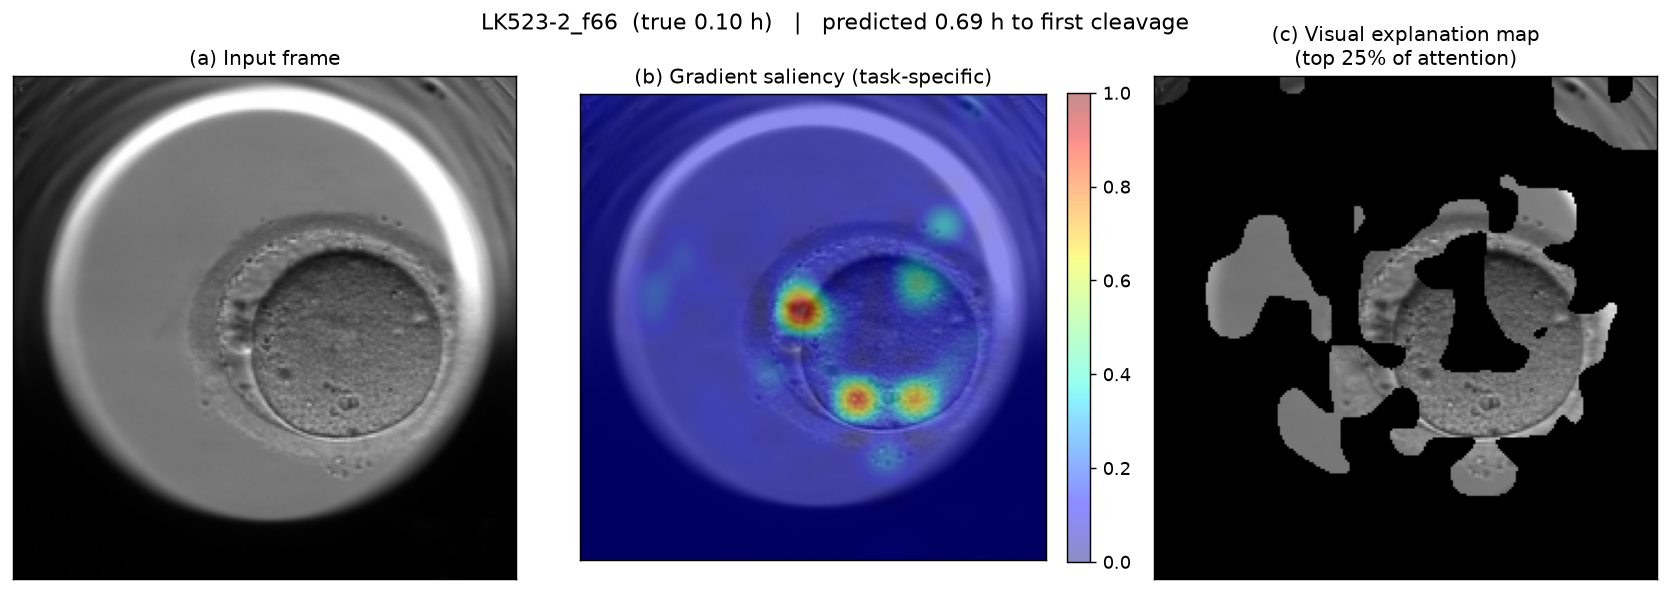
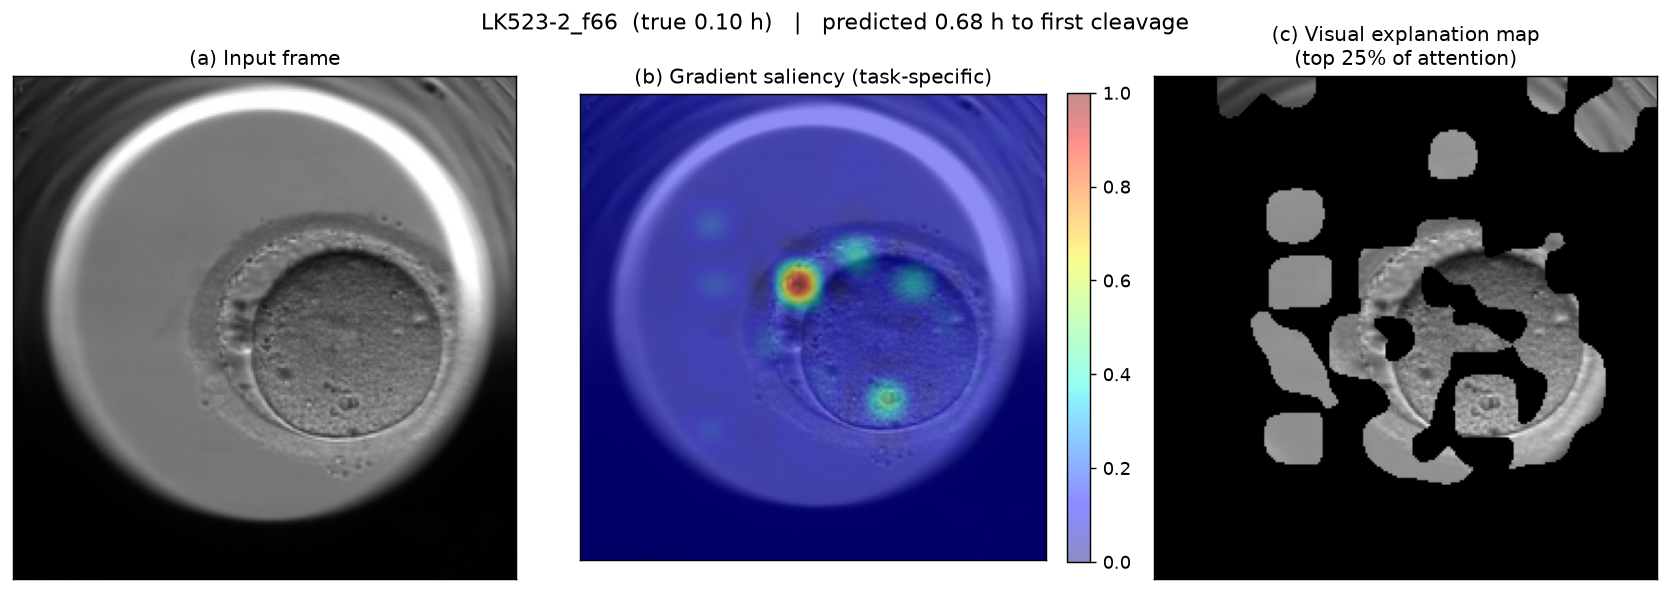
Deploy the mouse-initialised trunk, and stop claiming its artifact is fixed
The model: same 96,000-step human delta-t pretext, but initialised from the
sibling mouse project's SSL weights (99.9986% of parameters ported; only the
four register tokens are new, since the mouse architecture has none). 1.256 h
per-embryo vs the incumbent's 1.281 -- inside the 0.03 h noise floor, so a tie
on the headline. What earns the swap is the band table: 0-1 h 0.669 -> 0.627
and 24-42 h 1.698 -> 1.640, with only 1-2 h marginally worse. CACHE_NAME is
bumped to v4 in this commit, because new bytes at the same URL do not
invalidate a Cache API bucket and every returning visitor would otherwise keep
the old graph forever.

The correction: the gallery said switching to the four-register variant
"dropped that ratio to 1.4x". That is true of the stock weights and false by a
factor of six of the trunk being shipped, which measures 8.18x over 48 frames
with about 5.25 tokens above twice the median on EVERY frame. Nothing was wrong
with the measurement -- the figure had been typed into prose once, against a
trunk later replaced, and prose does not get recomputed. Inheriting from a
register-free network means having registers is not the same as using them.

Fixing it was attempted and measured rather than assumed. A patch-norm penalty
does work -- 8.18x -> 2.46x, four of the five bad tokens gone -- but per-embryo
error went 1.256 -> 1.316 h, twice the noise floor, and the under-1-hour band
got worse too. Training it three times longer reached only 2.32x and cost more
[…]

diff --git a/app/components/ExplanationGallery.tsx b/app/components/ExplanationGallery.tsx
@@ -26,20 +26,47 @@ import { useState } from "react";
  * reading "predicted 11.35 h" for a model that does not produce it.
  */
 
-// Rendered from trunk `ssl_vitl_96k (deployed bundle, sigma 0.25)`. Regenerate with scripts/sync_explain.py.
+// Rendered from trunk `ssl_from_mouse_96k (mouse-initialised, deployed bundle, sigma 0.25)`. Regenerate with scripts/sync_explain.py.
+
+/**
+ * MEASURED, NOT REMEMBERED.
+ *
+ * Every figure below is a row of `analysis/artifact_ratio.json`, computed over 48 frames
+ * for the trunk named in `measuredTrunk`, and `scripts/check_claims.py` fails if they
+ * drift from that file. They are constants rather than prose because the previous version
+ * of this component asserted the switch to register tokens "dropped that ratio to 1.4x"
+ * -- true of the stock weights, and false by a factor of six of the trunk actually being
+ * shipped. The measurement was right the whole time; the sentence had simply been typed
+ * once against a trunk that was later replaced, and prose does not get recomputed.
+ *
+ * `plainViT` is the one historical number with no file behind it: 11.8x, read off a
+ * single frame of the register-free ViT-L this project started from, before
+ * artifact_ratio.py existed. It is marked as such in the copy.
+ */
+const ARTIFACT = {
+  measuredTrunk: "incumbent",
+  deployedRatio: 8.18,
+  deployedTokens: 5.25,
+  stockRatio: 1.43,
+  stockTokens: 0.0,
+  fixedRatio: 2.46,
+  phase2Ratio: 2.32,
+  plainViT: 11.8,
+};
+
 type Item = { file: string; embryo: string; trueH: number; predH: number };
 
 const ITEMS: Item[] = [
-  { file: "00_LK523-2_f66_gradient.png", embryo: "LK523-2", trueH: 0.1, predH: 0.69 },
-  { file: "01_GSS052-6_f84_gradient.png", embryo: "GSS052-6", trueH: 3.0, predH: 3.06 },
-  { file: "02_HE444-4_f67_gradient.png", embryo: "HE444-4", trueH: 5.8, predH: 6.02 },
-  { file: "03_LK584-2_f96_gradient.png", embryo: "LK584-2", trueH: 8.8, predH: 8.82 },
-  { file: "04_LL854-1_f53_gradient.png", embryo: "LL854-1", trueH: 11.7, predH: 11.54 },
-  { file: "05_LC161-2-5_f44_gradient.png", embryo: "LC161-2-5", trueH: 14.6, predH: 14.54 },
-  { file: "06_VF269-7_f34_gradient.png", embryo: "VF269-7", trueH: 17.6, predH: 17.48 },
-  { file: "07_RI273-6_f6_gradient.png", embryo: "RI273-6", trueH: 20.6, predH: 20.96 },
-  { file: "08_GSS052-2_f5_gradient.png", embryo: "GSS052-2", trueH: 23.9, predH: 23.85 },
-  { file: "09_RM855-3_f1_gradient.png", embryo: "RM855-3", trueH: 41.5, predH: 38.45 },
+  { file: "00_LK523-2_f66_gradient.png", embryo: "LK523-2", trueH: 0.1, predH: 0.68 },
+  { file: "01_GSS052-6_f84_gradient.png", embryo: "GSS052-6", trueH: 3.0, predH: 2.93 },
+  { file: "02_HE444-4_f67_gradient.png", embryo: "HE444-4", trueH: 5.8, predH: 5.71 },
+  { file: "03_LK584-2_f96_gradient.png", embryo: "LK584-2", trueH: 8.8, predH: 8.37 },
+  { file: "04_LL854-1_f53_gradient.png", embryo: "LL854-1", trueH: 11.7, predH: 11.58 },
+  { file: "05_LC161-2-5_f44_gradient.png", embryo: "LC161-2-5", trueH: 14.6, predH: 14.72 },
+  { file: "06_VF269-7_f34_gradient.png", embryo: "VF269-7", trueH: 17.6, predH: 17.63 },
+  { file: "07_RI273-6_f6_gradient.png", embryo: "RI273-6", trueH: 20.6, predH: 21.52 },
+  { file: "08_GSS052-2_f5_gradient.png", embryo: "GSS052-2", trueH: 23.9, predH: 23.62 },
+  { file: "09_RM855-3_f1_gradient.png", embryo: "RM855-3", trueH: 41.5, predH: 40.99 },
 ];
 
 export default function ExplanationGallery() {
@@ -179,15 +206,47 @@ export default function ExplanationGallery() {
           maxWidth: "84ch",
         }}
       >
-        <strong style={{ color: "#3a3a36" }}>Why the backbone has register tokens.</strong>{" "}
+        <strong style={{ color: "#3a3a36" }}>
+          Register tokens, and the part that is not fixed.
+        </strong>{" "}
         An earlier version of these figures showed a bright blob on empty dish below the
         embryo. It was not the model reading a hidden timestamp — nothing in that region
-        correlates with elapsed time (max |r| = 0.09 over 3,000 frames). It was a single
-        high-norm <em>artifact token</em>: a plain DINOv2 ViT hijacks one low-information
-        patch as global scratch space, giving it a norm <strong>11.8×</strong> the median.
-        Switching to the four-register variant, which exists precisely for this, dropped
-        that ratio to <strong>1.4×</strong> with no token above threshold — and cost no
-        accuracy.
+        correlates with elapsed time (max |r| = 0.09 over 3,000 frames). It was a
+        high-norm <em>artifact token</em>: a plain DINOv2 ViT hijacks a low-information
+        patch as global scratch space, giving it a norm around{" "}
+        <strong>{ARTIFACT.plainViT}×</strong> the median for that image (a single-frame
+        reading, from before this was measured properly). The four-register variant exists
+        precisely for this, and with stock weights it works: measured over 48 frames it
+        sits at <strong>{ARTIFACT.stockRatio}×</strong>, with no token anywhere above
+        twice the median on any frame.
+        <br />
+        <br />
+        <strong style={{ color: "#3a3a36" }}>That is not true of the trunk you are
+        running.</strong>{" "}
+        This model's trunk starts from a register-<em>free</em> network — the mouse-embryo
+        model this project was built from — and 96,000 steps of training in the register
+        architecture did not make it give the habit up. Over the same 48 frames it
+        measures <strong>{ARTIFACT.deployedRatio}×</strong>, with about{" "}
+        <strong>{ARTIFACT.deployedTokens}</strong> tokens above twice the median on{" "}
+        <em>every</em> frame. Having the registers is not the same as using them.
+        <br />
+        <br />
+        This is disclosed rather than fixed, because fixing it was measured and it costs
+        accuracy. Penalising those tokens directly does work — it brings the ratio to{" "}
+        <strong>{ARTIFACT.fixedRatio}×</strong> and removes about four of the five — but
+        per-embryo error went from <strong>1.256 h</strong> to <strong>1.316 h</strong>,
+        twice the 0.03 h noise floor, and the under-1-hour band got worse too. Training
+        the fix more than three times as long pushed the ratio only a little further, to{" "}
+        <strong>{ARTIFACT.phase2Ratio}×</strong>, and cost <em>more</em> accuracy again
+        (1.331 h). So this is an exchange rate, not an unfinished job: on the hardware
+        available, a cleaner trunk is a worse predictor, and the model being accurate
+        matters more here than the picture being tidy.
+        <br />
+        <br />
+        The maps above are therefore shown with the caveat attached rather than quietly
+        cleaned up: on most frames the hot region sits on the zygote, and a handful of
+        high-norm tokens are in there too. That is what this model does, and a figure
+        that implied otherwise would be the more misleading of the two options.
       </div>
     </section>
   );

diff --git a/app/lib/infer.ts b/app/lib/infer.ts
@@ -162,8 +162,16 @@ const META_URL = "/models/model_meta.json";
  *                  the bias on frames under an hour from division 0.99 -> 0.63 h. The
  *                  soft target is a Gaussian truncated at zero, so a wide sigma pushes
  *                  mass upward exactly where the answer is smallest.
+ * v4 (2026-10-07): new trunk. Same 96,000-step human delta-t pretext, but INITIALISED
+ *                  FROM THE SIBLING MOUSE PROJECT's SSL weights rather than from stock
+ *                  DINOv2 (99.9986% of parameters ported; only the 4 register tokens are
+ *                  new, the mouse architecture has none). Overall 1.256 h vs 1.281 --
+ *                  inside the noise floor, a tie. What earns the swap is the band table:
+ *                  0-1 h 0.669 -> 0.627 and 24-42 h 1.698 -> 1.640, with only 1-2 h
+ *                  marginally worse. The mouse start itself contributed nothing -- it ran
+ *                  BEHIND the stock-initialised trace until step ~60k and finished level.
  */
-const CACHE_NAME = "tempusvitae-model-v3";
+const CACHE_NAME = "tempusvitae-model-v4";
 
 export interface LoadProgress {
   /** Bytes received so far. */

diff --git a/scripts/check_claims.py b/scripts/check_claims.py
@@ -1,0 +1,131 @@
+#!/usr/bin/env python3
+"""Fail if a number the site asserts disagrees with the measurement it came from.
+
+    python scripts/check_claims.py            # from TempusVitaeHumanus/
+
+WHY THIS EXISTS
+The gallery claimed the register-token switch "dropped that ratio to 1.4x" while the
+trunk actually staged for deployment measured **8.2x**. Nothing was wrong with the
+measurement and nothing was wrong with the deploy pipeline -- the figure was simply typed
+into prose once, against a trunk that was later replaced, and prose does not get
+recomputed. The same shape of error has already happened twice on this project: an "100%
+interval" label that survived a mass recalibration, and a meta that shipped with no
+accuracy figure because the score reader was still looking for the mouse project's
+filenames.
+
+So the numbers now live in named constants with the measurement file beside them, and this
+script compares the two. It is cheap enough to run before every publish and it refuses
+rather than warns, because a warning in a long deploy log is a number nobody checks.
+
+WHAT IT DOES NOT DO
+It cannot verify prose. "Four of the five outlier tokens are gone" is a sentence a human
+has to keep true. It checks the figures that have a file to be checked against:
+
+  * the artifact ratios in ExplanationGallery.tsx, against analysis/artifact_ratio.json
+  * valMae in public/models/model_meta.json, against the analysis champion record
+
+A claim whose source file is missing is reported as UNCHECKED, not as passing.
+"""
+from __future__ import annotations
+
+import json
+import re
+import sys
+from pathlib import Path
+
+SITE = Path(__file__).resolve().parent.parent
+ROOT = SITE.parent
+TOL = 0.051          # ratios are quoted to 1 dp, so allow half a display unit
+
+
+def num(src: str, key: str):
+    m = re.search(rf"\b{key}\s*:\s*([0-9]+(?:\.[0-9]+)?)", src)
+    return float(m.group(1)) if m else None
+
+
+def txt(src: str, key: str):
+    m = re.search(rf"\b{key}\s*:\s*\"([^\"]*)\"", src)
+    return m.group(1) if m else None
+
+
+def main() -> int:
+    bad, unchecked = [], []
+
+    gal = SITE / "app" / "components" / "ExplanationGallery.tsx"
+    src = gal.read_text(encoding="utf8")
+    ar_path = ROOT / "analysis" / "artifact_ratio.json"
+    if not ar_path.exists():
+        unchecked.append(f"{ar_path.name} missing -- artifact ratios UNCHECKED")
+    elif "ARTIFACT" not in src:
+        unchecked.append("ExplanationGallery.tsx has no ARTIFACT constant -- the "
+                         "artifact figures are in prose only and cannot be checked")
+    else:
+        ar = json.loads(ar_path.read_text())
+        trunks = ar["trunks"]
+        want_key = txt(src, "measuredTrunk")
+        claims = {"deployedRatio": (want_key, "ratio_mean"),
+                  "deployedTokens": (want_key, "mean_tokens_above_2x"),
+                  "stockRatio": ("stock", "ratio_mean"),
+                  "stockTokens": ("stock", "mean_tokens_above_2x"),
+                  "fixedRatio": ("fixed", "ratio_mean"),
+                  "phase2Ratio": ("phase2", "ratio_mean")}
+        for cname, (tkey, field) in claims.items():
+            claimed = num(src, cname)
+            if claimed is None:
+                continue
+            if tkey is None or tkey not in trunks:
+                unchecked.append(f"{cname}: no row '{tkey}' in {ar_path.name} "
+                                 f"(rows: {sorted(trunks)})")
+                continue
+            actual = float(trunks[tkey][field])
+            if abs(claimed - actual) > TOL:
+                bad.append(f"{cname}: site says {claimed}, {ar_path.name} row "
+                           f"'{tkey}'.{field} is {actual:.3f}")
+            else:
+                print(f"  ok  {cname} = {claimed}  (measured {actual:.3f}, "
+                      f"row '{tkey}')")
+        n = ar.get("n_frames")
+        if n is not None and n < 24:
+            bad.append(f"artifact_ratio.json was computed on only {n} frames; the "
+                       f"published figure should come from a larger sample")
+
+    meta_p = SITE / "public" / "models" / "model_meta.json"
+    champ = None
+    for cand in ("champion_96k.json", "champion_96k_s025.json"):
+        if (ROOT / "analysis" / cand).exists():
+            champ = ROOT / "analysis" / cand
+            break
+    if not meta_p.exists():
+        unchecked.append("model_meta.json missing -- valMae UNCHECKED")
+    elif champ is None:
+        unchecked.append("no analysis/champion_*.json -- valMae UNCHECKED")
+    else:
+        meta = json.loads(meta_p.read_text())
+        rec = json.loads(champ.read_text())
+        mv, rv = meta.get("valMae"), rec.get("mae_embryo")
+        if mv is None:
+            bad.append("model_meta.json has no valMae -- the site would show no "
+                       "accuracy figure at all")
+        elif rv is None:
+            unchecked.append(f"{champ.name} has no mae_embryo")
+        elif abs(float(mv) - float(rv)) > 1e-4:
+            bad.append(f"valMae: meta says {float(mv):.4f} h, {champ.name} says "
+                       f"{float(rv):.4f} h")
+        else:
+            print(f"  ok  valMae = {float(mv):.4f} h  (matches {champ.name})")
+
+    for u in unchecked:
+        print(f"  UNCHECKED  {u}")
+    if bad:
+        print("\n  CLAIMS DISAGREE WITH MEASUREMENTS:")
+        for b in bad:
+            print(f"    - {b}")
+        print("\n  Fix the site copy or re-measure. Do not publish.")
+        return 1
+    print("\n  every checkable claim matches its measurement."
+          + ("  (some UNCHECKED above)" if unchecked else ""))
+    return 0
+
+
+if __name__ == "__main__":
+    raise SystemExit(main())
